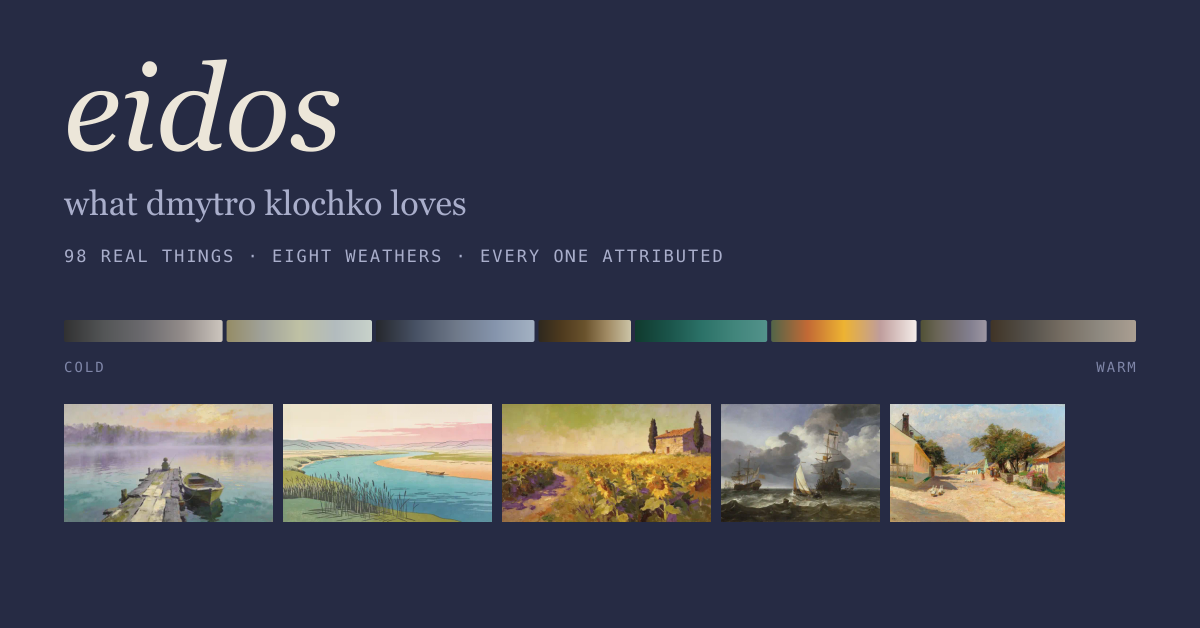
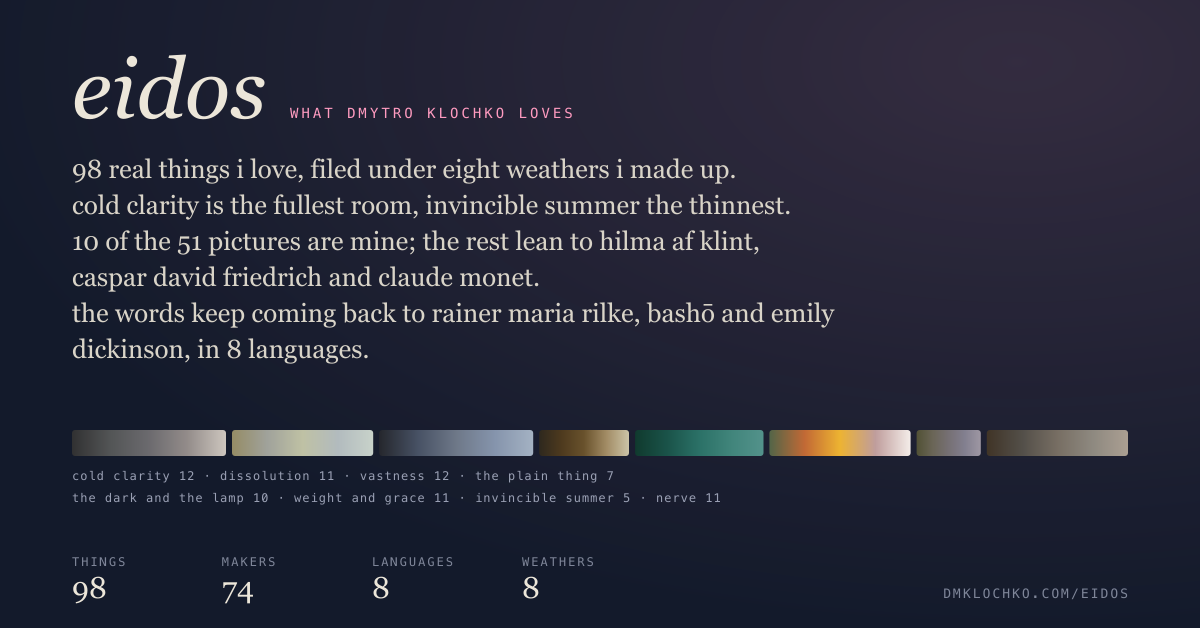
the share card is drawn from the vault, and the words come in kind order
"Beautiful to share" meant a card, and the card was a static png that said
65 things while the library held 98 — it lied within a day of being made.
scripts/og-eidos-build.mjs now draws og-eidos.png at every build from
map.json and palettes.json: the same four sentences the portrait on the page
computes, the eight weathers as a strip sized by what each holds and painted
in its own palette, a two-line legend naming all of them, the counts, the
address. The og url carries the map's build date so social caches refetch
when the vault moves. A test composes the card from the current map and
checks that it counts what the library counts, names every weather, keeps
every sentence inside the frame and finishes the last one.

Inside each room the words now come in kind order — poems, then quotes,
then songs — so the column reads as three short runs instead of a shuffle.

DIRECTIONS.md marks its first next step done.

diff --git a/DIRECTIONS.md b/DIRECTIONS.md
@@ -96,8 +96,9 @@ day answers "what is he looking at".
 
 ## What to do next
 
-1. Make the portrait shareable as an image that rebuilds from the vault, so
-   the og card never lies about the counts (direction 1's open item).
+1. ~~Make the portrait shareable as an image that rebuilds from the vault~~ —
+   done: scripts/og-eidos-build.mjs draws og-eidos.png from map.json at every
+   build, versioned by the map's date.
 2. Give each weather its own page in the mood-board shape (direction 2 at
    the scale where it works), linked from the room's door.
 3. Leave the graph and the day where they are.
